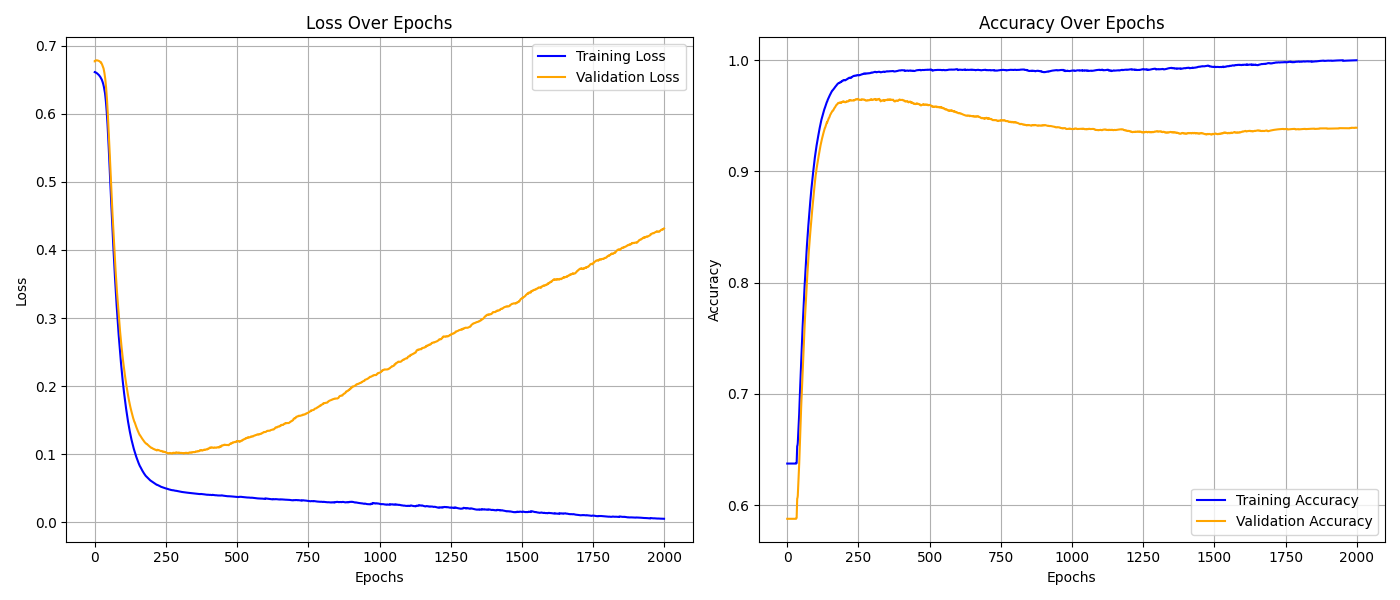
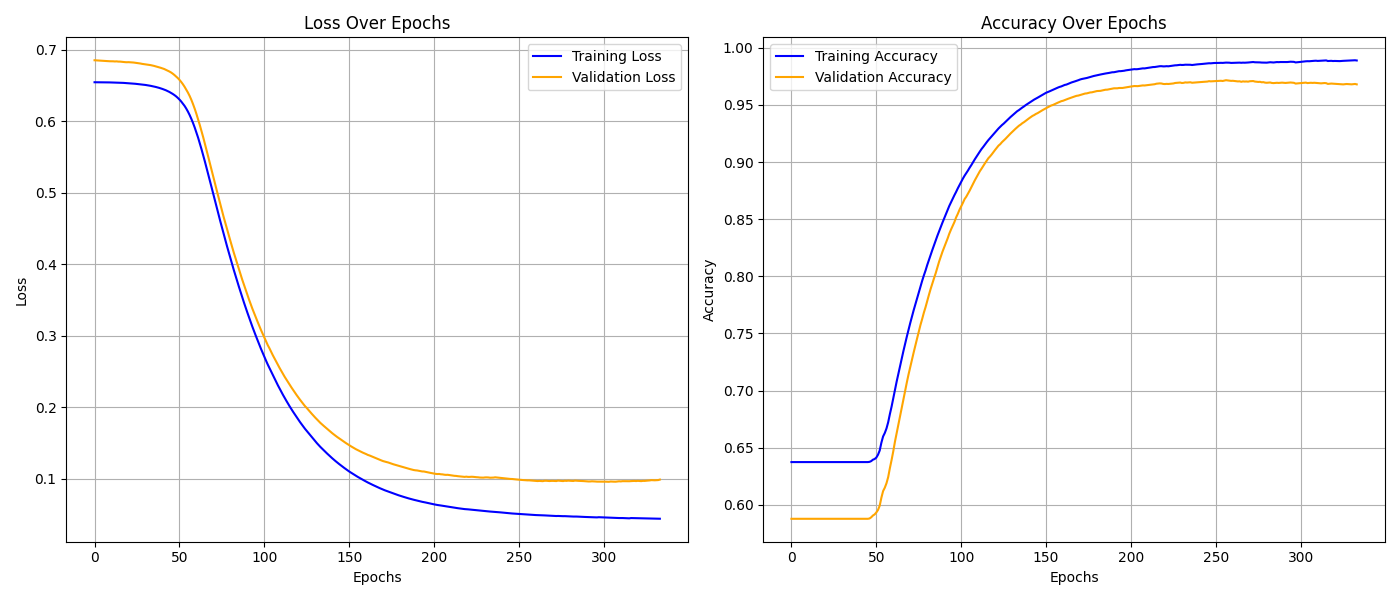
early stopping implantation

diff --git a/MLP_OS/srcs/training/train.py b/MLP_OS/srcs/training/train.py
@@ -5,7 +5,7 @@ import numpy as np
 import matplotlib.pyplot as plt
 
 sys.path.append(os.path.abspath(os.path.join(os.path.dirname(__file__), '../..')))
-from config_g import RAW_DATA_PATH, PROCESSED_DATA_PATH, TRAINING_DATA_FILE, VALIDATION_DATA_FILE, TRAINING_RESULTS_FILE, VALIDATION_RESULTS_FILE, LOGS_FOLDER, LOSS_LOGS_FILE, MODEL_PATH, MODEL_FILE, LAYER, EPOCHS, LOSS, BATCH_SIZE, LEARNING_RATE, MODEL_PATH, MODEL_FILE
+from config_g import RAW_DATA_PATH, PROCESSED_DATA_PATH, TRAINING_DATA_FILE, VALIDATION_DATA_FILE, TRAINING_RESULTS_FILE, VALIDATION_RESULTS_FILE, LOGS_FOLDER, LOSS_LOGS_FILE, MODEL_PATH, MODEL_FILE, LAYER, EPOCHS, LOSS, BATCH_SIZE, LEARNING_RATE, MODEL_PATH, MODEL_FILE, EARLY_STOPPING_LIMIT
 
 from srcs.training.activation import Activation
 from srcs.training.cost import Cost
@@ -120,13 +120,14 @@ class Training:
             self.losses_train.append(loss_train)
             self.accuracies_train.append(accuracy_train)
 
-            self.validate_training(X_val, Y_val, epoch)
+            if self.validate_training(X_val, Y_val, epoch) == True:
+                break
 
             if epoch % 200 == 0 or epoch == self.epochs - 1:
                 self.print_predictions_comparison(A_train, Y, num_samples=30)
 
 
-    def validate_training(self, X_val, Y_val, epoch) -> None:
+    def validate_training(self, X_val, Y_val, epoch) -> bool:
         """ Use model weights and bias to validate the training """
         A_val, _ = self.forward_propagation(self.parameters, X_val)
         val_loss = Cost.compute_loss(A_val, Y_val, self.loss)
@@ -134,10 +135,31 @@ class Training:
         
         self.losses_validation.append(val_loss)
         self.accuracies_validation.append(val_accuracy)
+        
+        if self.early_stopping(epoch) == True:
+            return True
 
         if epoch % 200 == 0 or epoch == self.epochs - 1:
             print(f"Validation Loss: {val_loss:.4f} | Validation Accuracy: {val_accuracy*100:.2f}%")
+            
+        return False
         
+
+    def early_stopping(self, epoch) -> bool:
+        """ Check if the model should stop training early """
+        if EARLY_STOPPING_LIMIT == 0:
+            return False
+        if epoch > EARLY_STOPPING_LIMIT:
+            last_losses = self.losses_validation[-EARLY_STOPPING_LIMIT:]
+            current_loss = last_losses[-1]
+            previous_losses = last_losses[:-1]
+            
+            if all(current_loss > prev_loss for prev_loss in previous_losses):
+                print(f"\nEarly stopping triggered at epoch {epoch}")
+                return True
+        
+        return False
+
 
     def create_logs(self) -> None:
         """Create Loss and Accuracy graphs."""

diff --git a/MLP_OS/config_g.py b/MLP_OS/config_g.py
@@ -26,3 +26,4 @@ EPOCHS = 84
 LOSS = 'binaryCrossentropy'
 LEARNING_RATE = 0.1
 BATCH_SIZE = 50
+EARLY_STOPPING_LIMIT = 150
